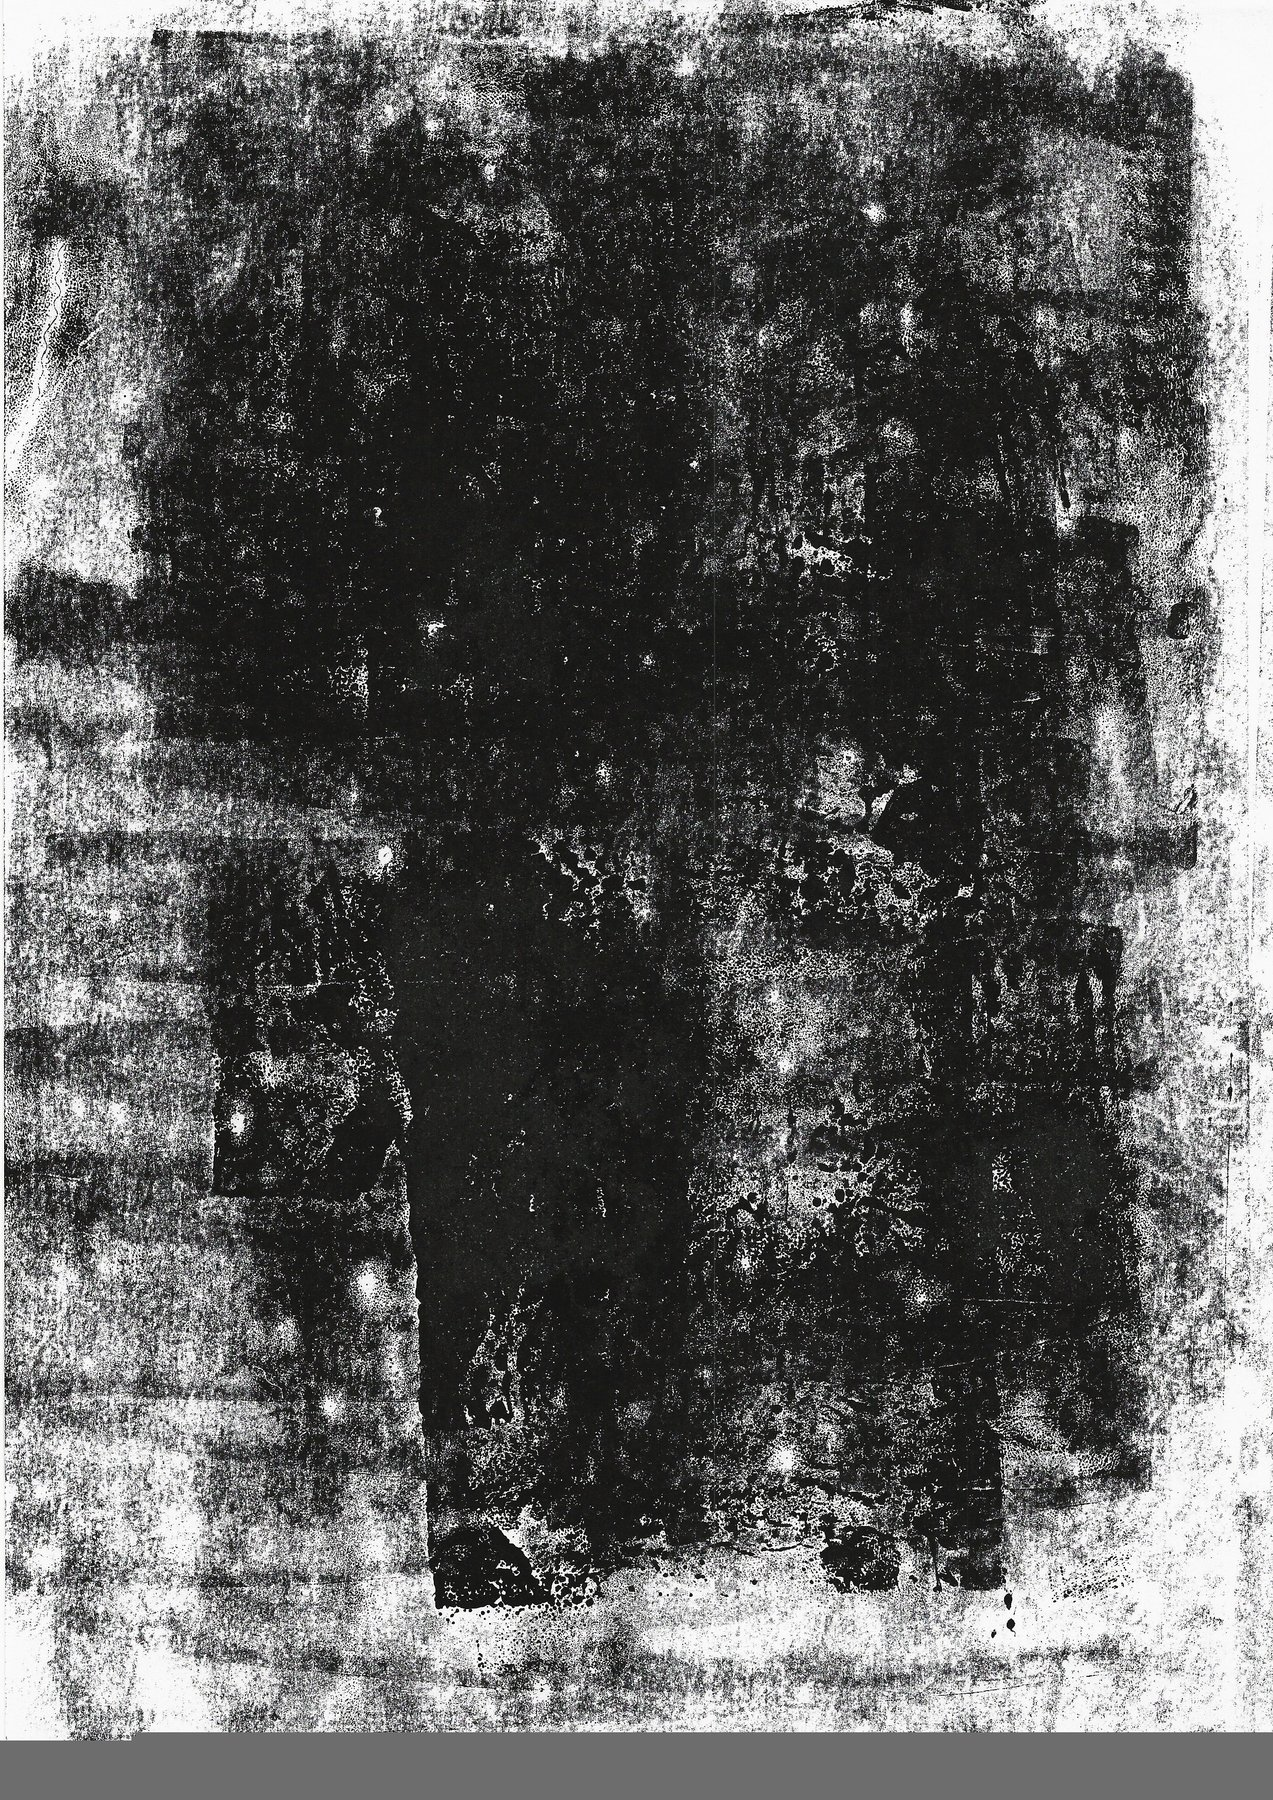
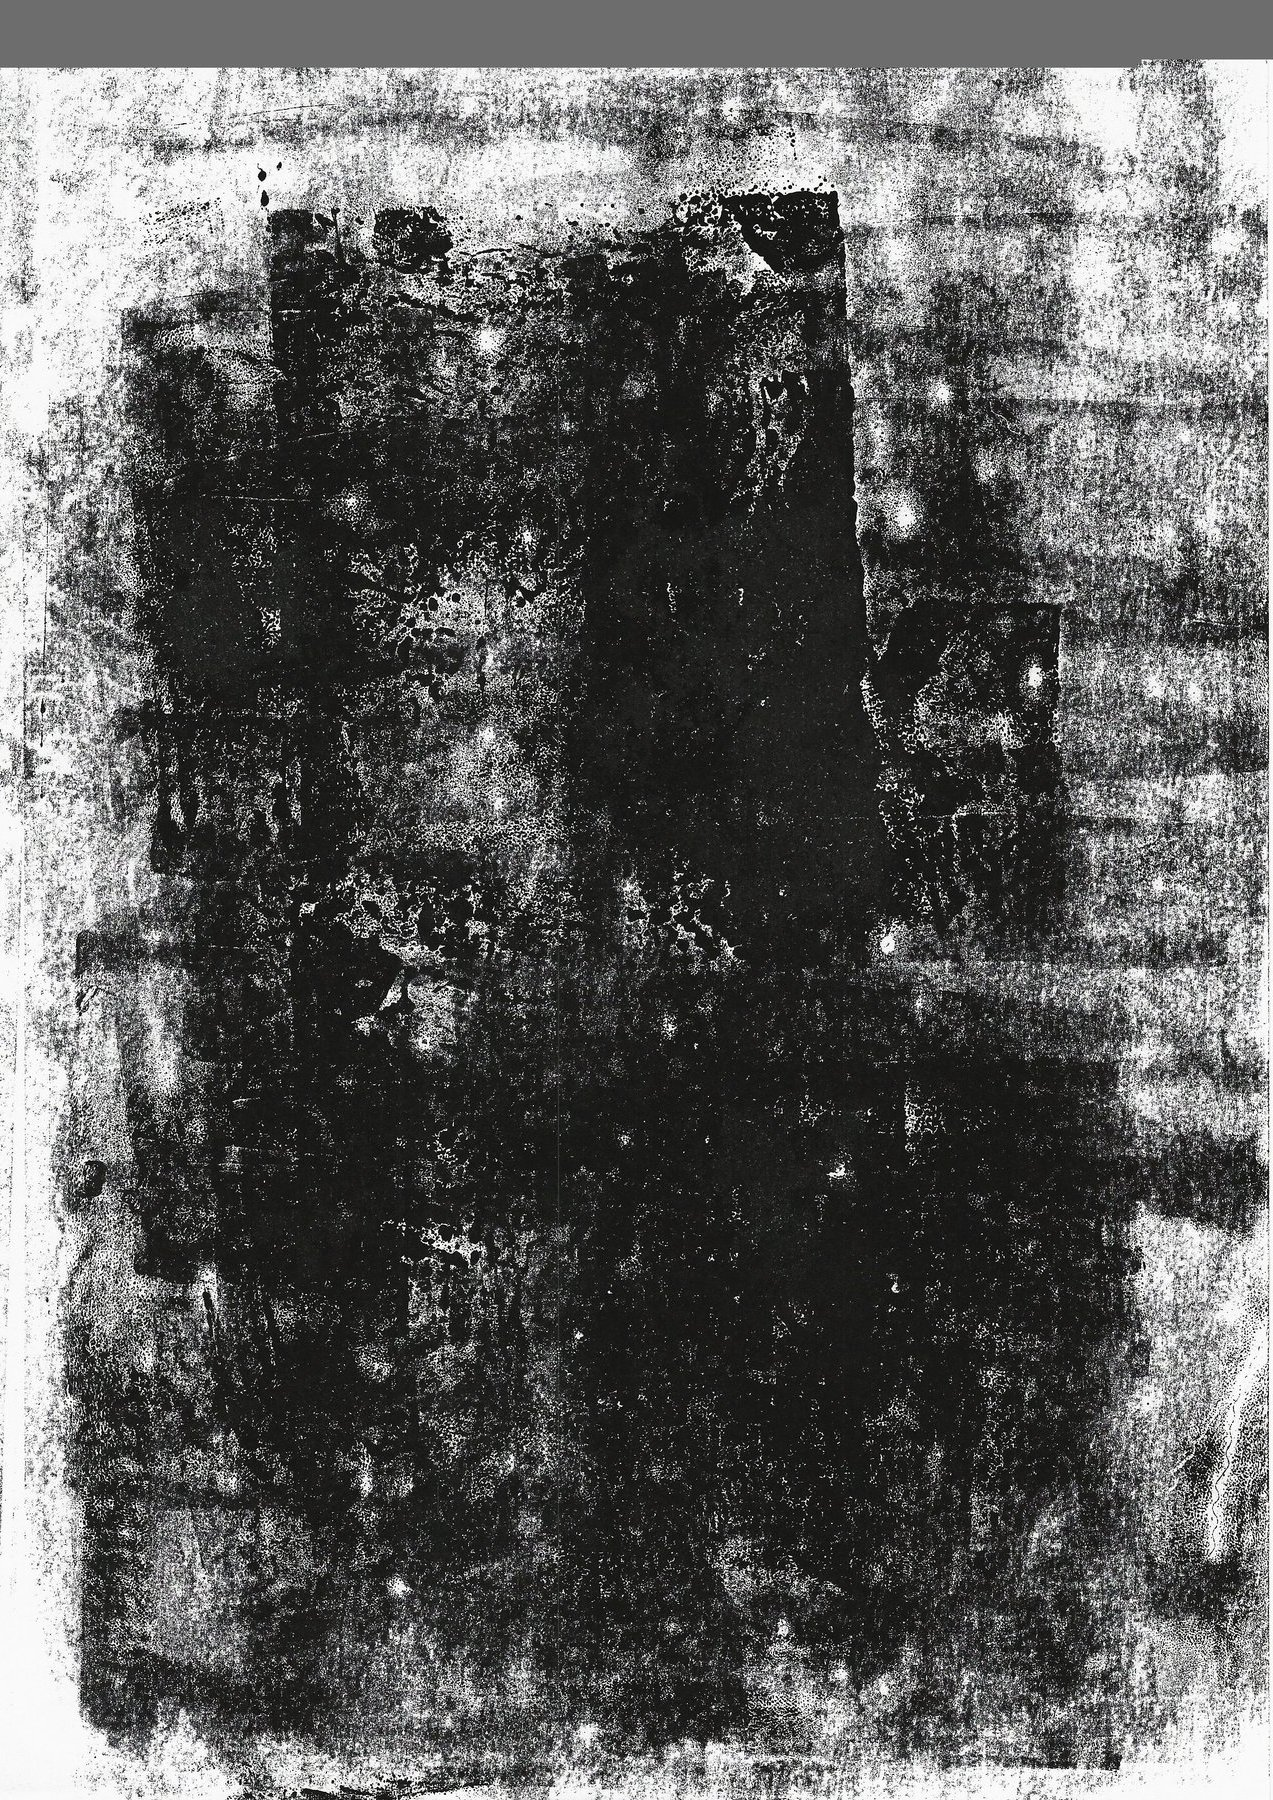
Portfolio: remove Communication and A Virgin in Moulin Rouge; monoprints turned 180°

diff --git a/assets/portfolio.js b/assets/portfolio.js
@@ -434,76 +434,6 @@ window.PORTFOLIO = {
     },
     {
      "group": {
-      "t": "Communication",
-      "y": "2015",
-      "m": "Digital photography",
-      "shown": "",
-      "imgs": [
-       [
-        "photo-communication-1",
-        1800,
-        1200
-       ],
-       [
-        "photo-communication-2",
-        1800,
-        1200
-       ],
-       [
-        "photo-communication-3",
-        1800,
-        1200
-       ],
-       [
-        "photo-communication-4",
-        1800,
-        1200
-       ],
-       [
-        "photo-communication-5",
-        1800,
-        1200
-       ],
-       [
-        "photo-communication-6",
-        1800,
-        1200
-       ]
-      ]
-     }
-    },
-    {
-     "group": {
-      "t": "A Virgin in Moulin Rouge",
-      "y": "2018",
-      "m": "Digital photography",
-      "shown": "",
-      "imgs": [
-       [
-        "photo-a-virgin-in-moulin-rouge-1",
-        1800,
-        1200
-       ],
-       [
-        "photo-a-virgin-in-moulin-rouge-2",
-        1800,
-        1200
-       ],
-       [
-        "photo-a-virgin-in-moulin-rouge-3",
-        1800,
-        1200
-       ],
-       [
-        "photo-a-virgin-in-moulin-rouge-4",
-        1800,
-        1200
-       ]
-      ]
-     }
-    },
-    {
-     "group": {
       "t": "Lights",
       "y": "2018",
       "m": "Long-exposure photography",
